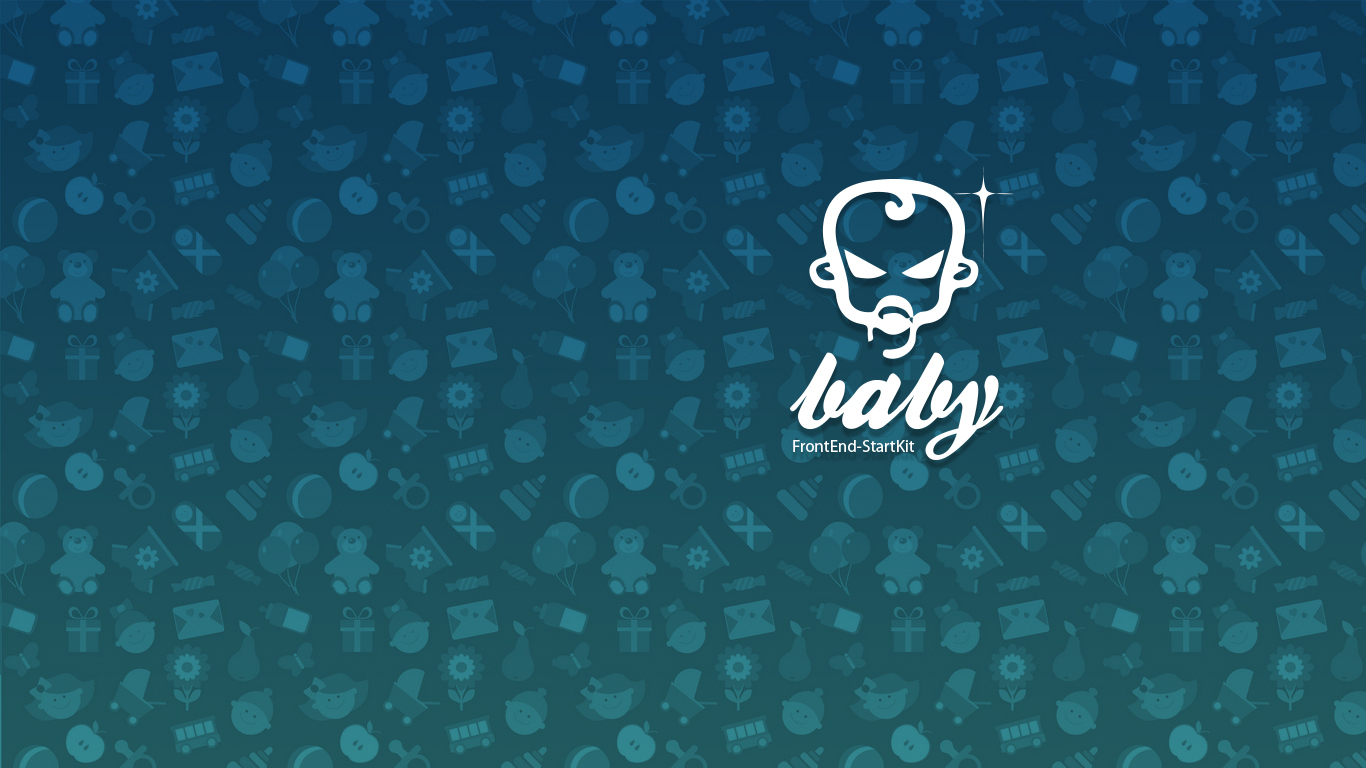
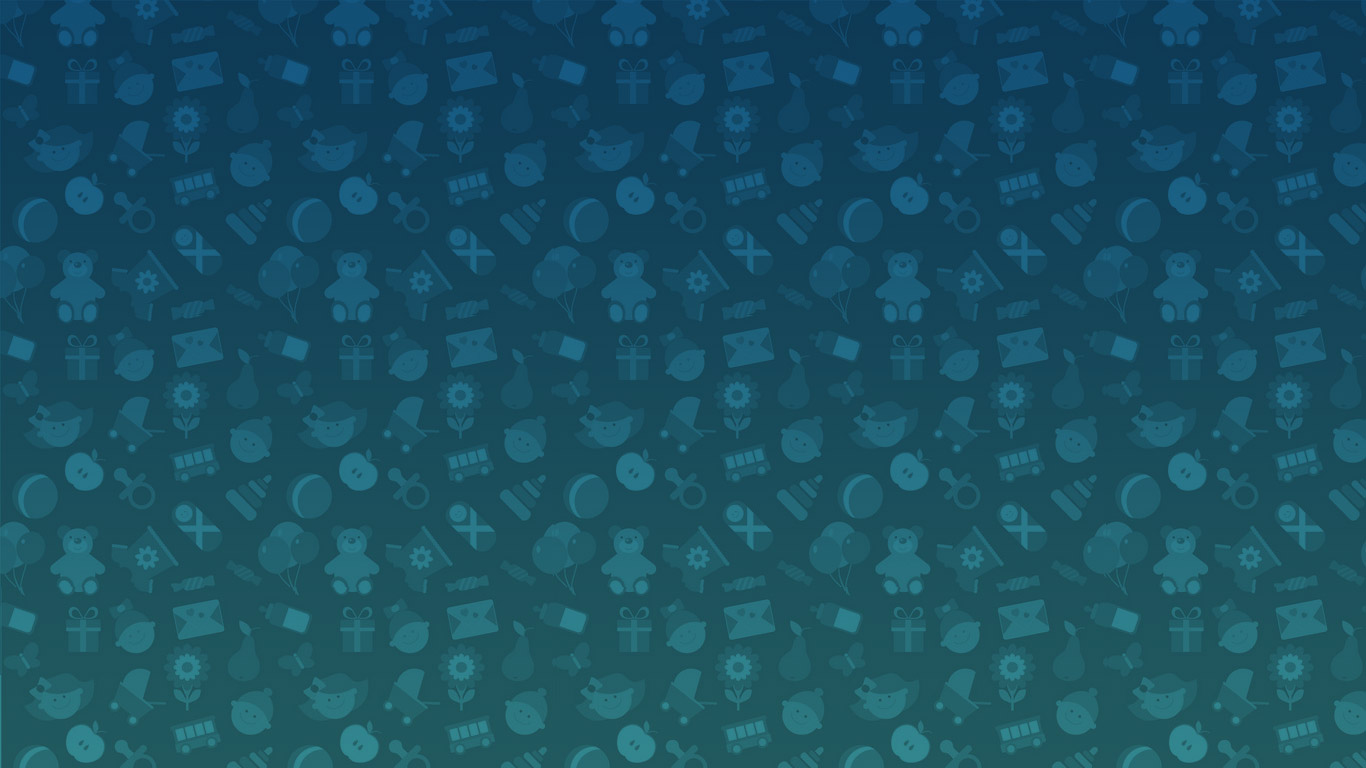
ajuste no gulp

Changed region(s): [[0.5842, 0.2188, 0.7379, 0.5938]]

diff --git a/app/assets/css/style.scss b/app/assets/css/style.scss
@@ -50,7 +50,7 @@ main {
 		height: 90%!important;
 		width: 100%;
 		background:#6c7c79 url('../img/baby84.jpg'); //'../img/bg-photo.jpg'
-		background-size: auto cover;
+		background-size: auto 110%;
 		background-position-x: center;
 	}
 	.title-keys {
@@ -59,7 +59,8 @@ main {
 		position: absolute;
 		top: 50%;
 		left: 50%;
-		transform: translate(-100%, -50%);
+		transform: translate(-50%, -50%);
+		filter: drop-shadow(0px 22px 2px rgba(0,0,0,0.3));
 		h1,
 		h2,
 		h3 {

diff --git a/app/home/view.html b/app/home/view.html
@@ -1,6 +1,6 @@
 <div class="container-full bg-main">
    <div class="title-keys">
-        <h1>Frontend</h1>
+        <h1>Angular</h1>
         <h2>Html</h2>
         <h2>Css</h2>
         <h2>Js</h2>
